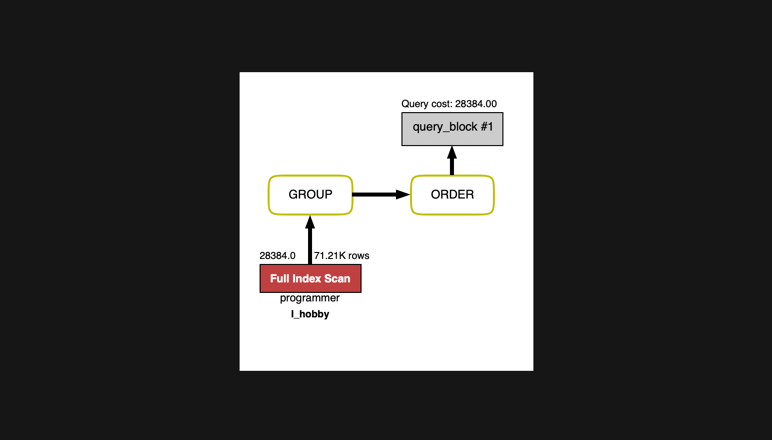
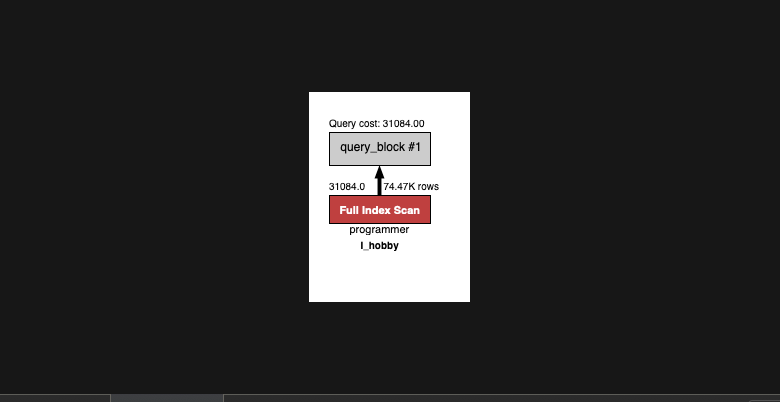
feat: B. 인덱스 설계 - 1 (재)

Changed region(s): [[0.3109, 0.1493, 0.715, 0.8657], [0.1244, 0.9552, 0.3109, 1.0], [0.9637, 0.9851, 1.0, 1.0]]

diff --git a/README.md b/README.md
@@ -134,21 +134,20 @@ ALTER TABLE `tuning`.`부서관리자`
 ###### Coding as a Hobby 와 같은 결과를 반환하세요.
 
 ```sql
-SELECT hobby, ROUND(COUNT(*) * 100 / (SELECT COUNT(*) FROM programmer), 1) AS percentage
+SELECT ROUND(SUM(IF(hobby = 'YES', 1, 0)) / COUNT(hobby) * 100, 1) AS Yes,
+       ROUND(SUM(IF(hobby = 'NO', 1, 0)) / COUNT(hobby) * 100, 1) AS No
 FROM programmer
-GROUP BY hobby
-ORDER BY hobby DESC;
 ```
 
 **인덱스 생성 전**
 
-> 3.326 sec
+> 2.751 sec
 
 ![b-1-before.png](b-1-before.png)
 
 **인덱스 생성 후**
 
-> 0.282 sec
+> 0.256 sec
 
 ![b-1-after.png](b-1-after.png)
 
@@ -245,15 +244,15 @@ GROUP BY covid.stay;
 
 ```sql
 ALTER TABLE `subway`.`covid`
-   CHANGE COLUMN `id` `id` BIGINT(20) NOT NULL ,
-   ADD PRIMARY KEY (`id`);
+    CHANGE COLUMN `id` `id` BIGINT(20) NOT NULL,
+    ADD PRIMARY KEY (`id`);
 ALTER TABLE `subway`.`programmer`
-   ADD INDEX `I_country` (`country` ASC);
+    ADD INDEX `I_country` (`country` ASC);
 ALTER TABLE `subway`.`hospital`
-   CHANGE COLUMN `name` `name` VARCHAR (256) NULL DEFAULT NULL,
-   ADD INDEX `I_name` (`name` ASC);
+    CHANGE COLUMN `name` `name` VARCHAR (256) NULL DEFAULT NULL,
+    ADD INDEX `I_name` (`name` ASC);
 ALTER TABLE `subway`.`covid`
-   ADD INDEX `I_hospital_id` (`hospital_id` ASC);
+    ADD INDEX `I_hospital_id` (`hospital_id` ASC);
 ```
 
 ###### 서울대병원에 다닌 30대 환자들을 운동 횟수별로 집계하세요. (user.Exercise)
